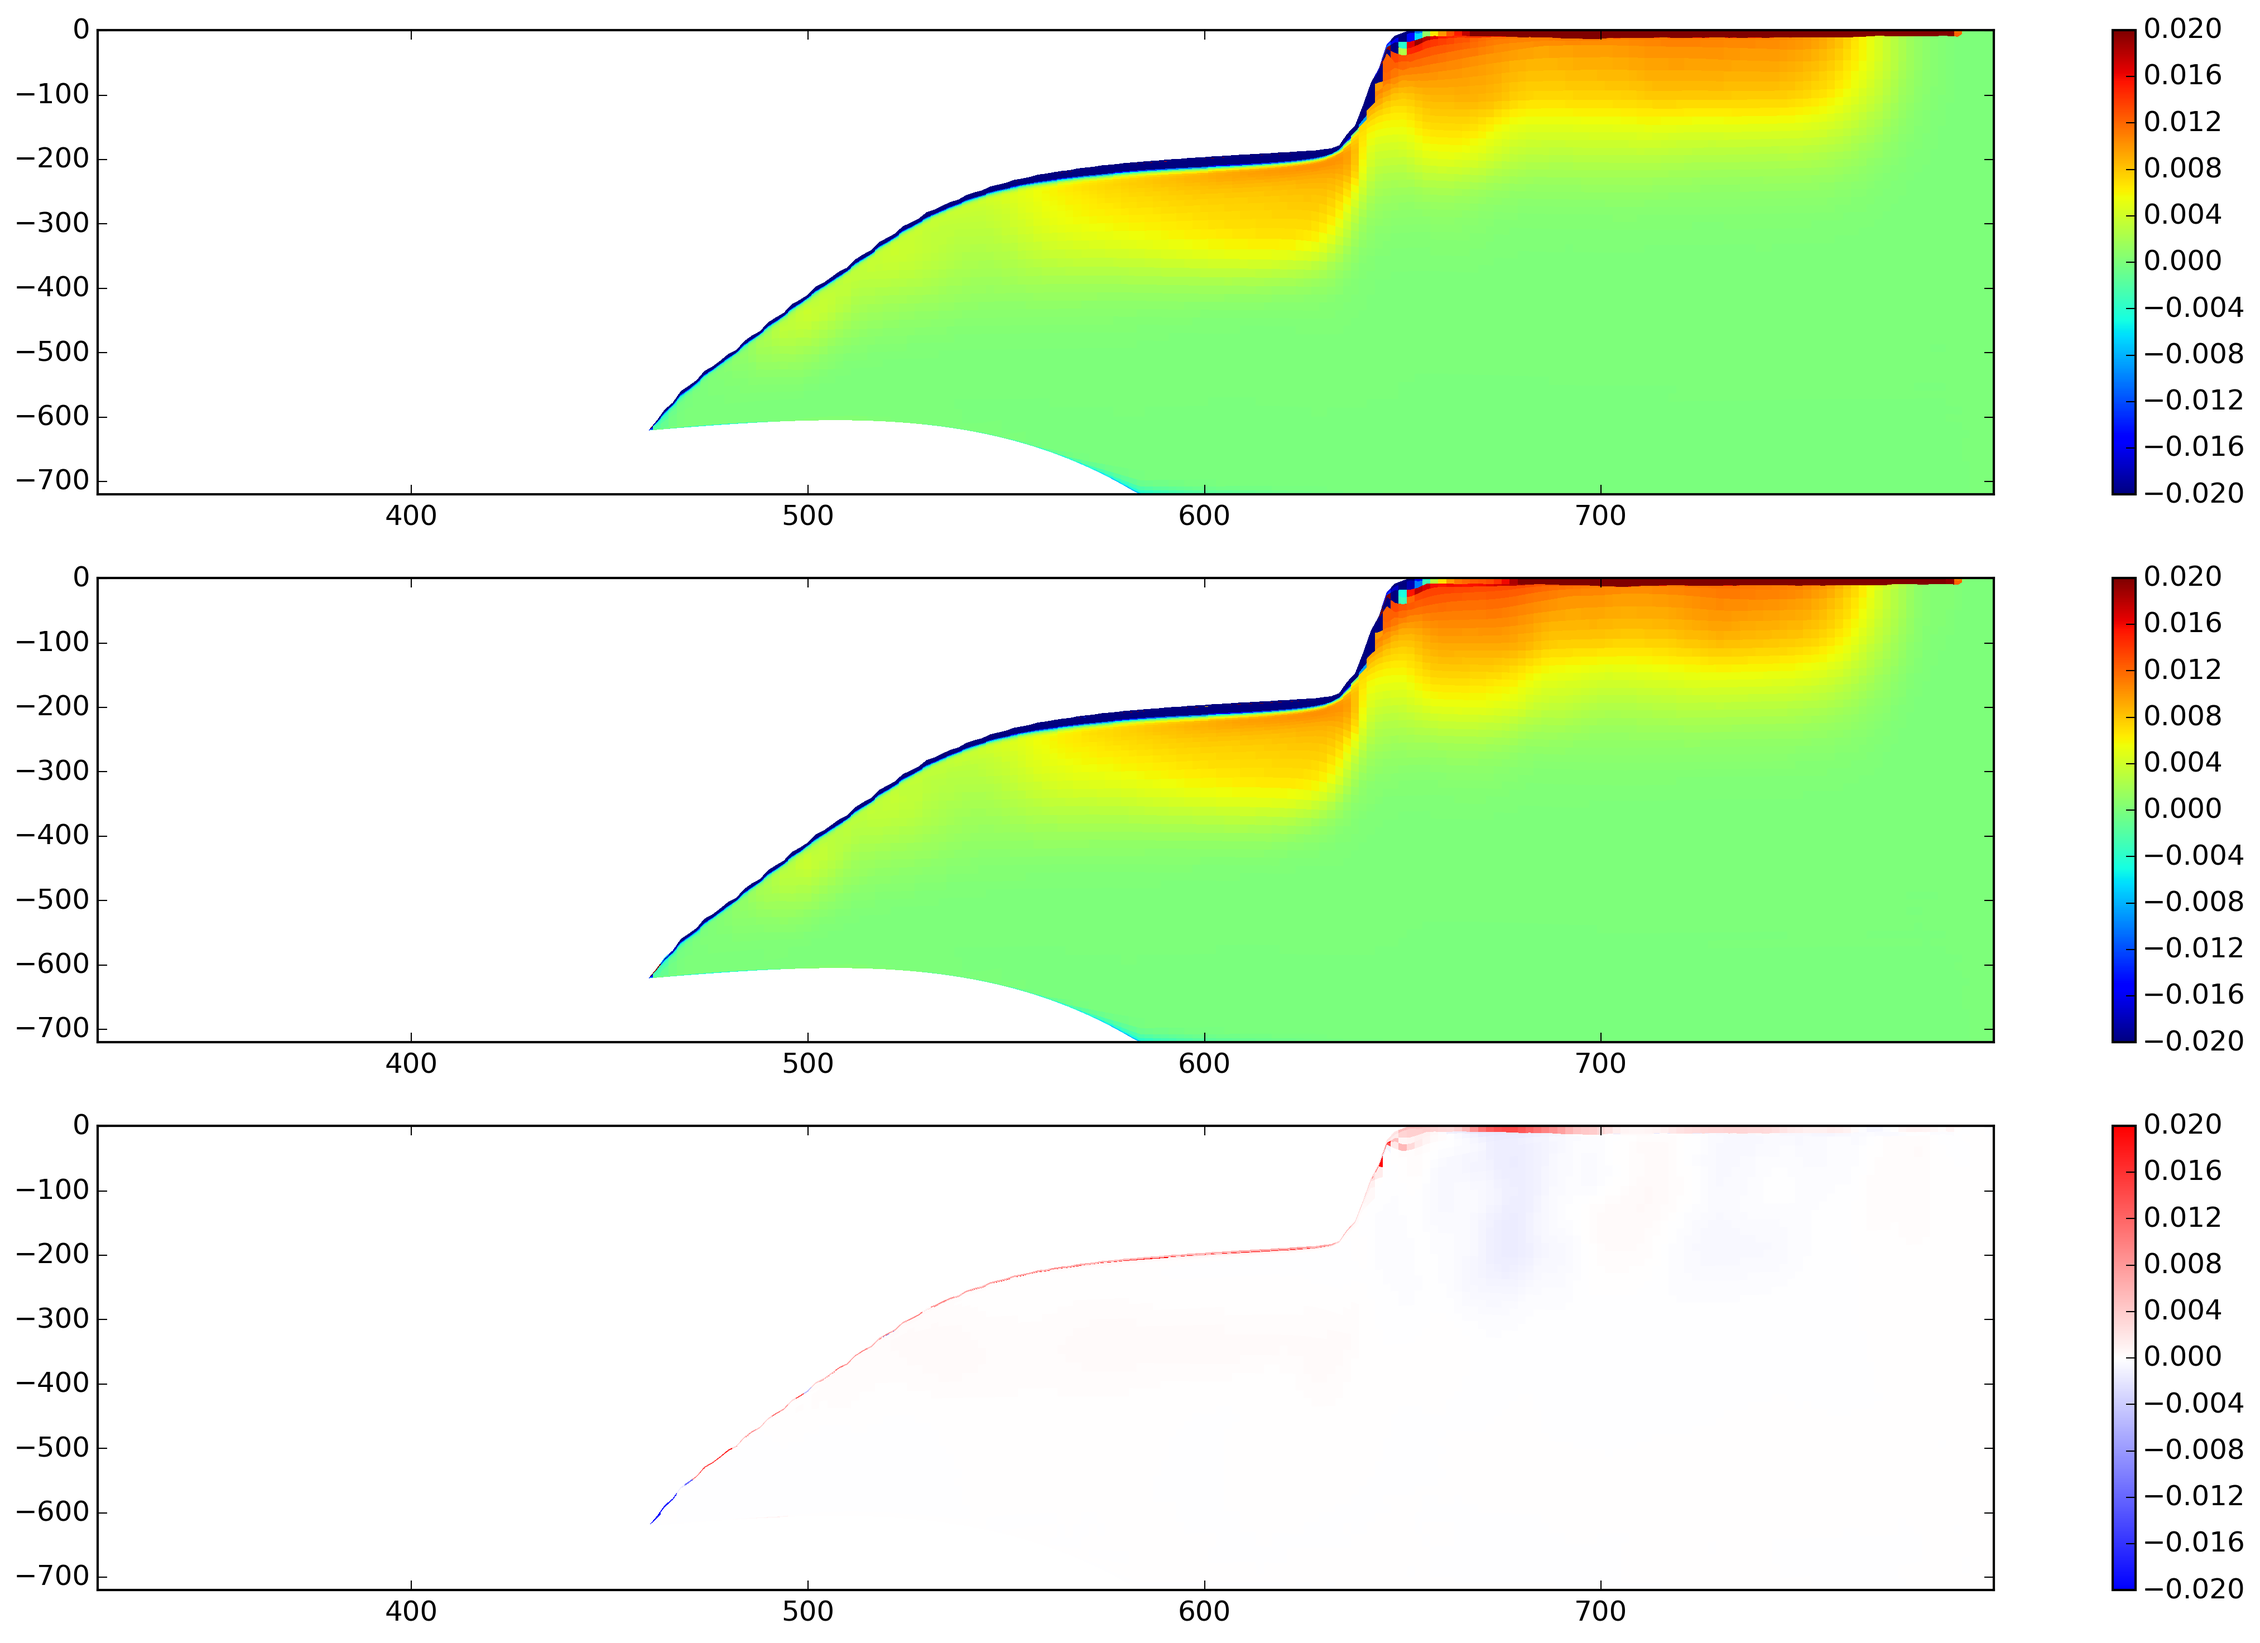
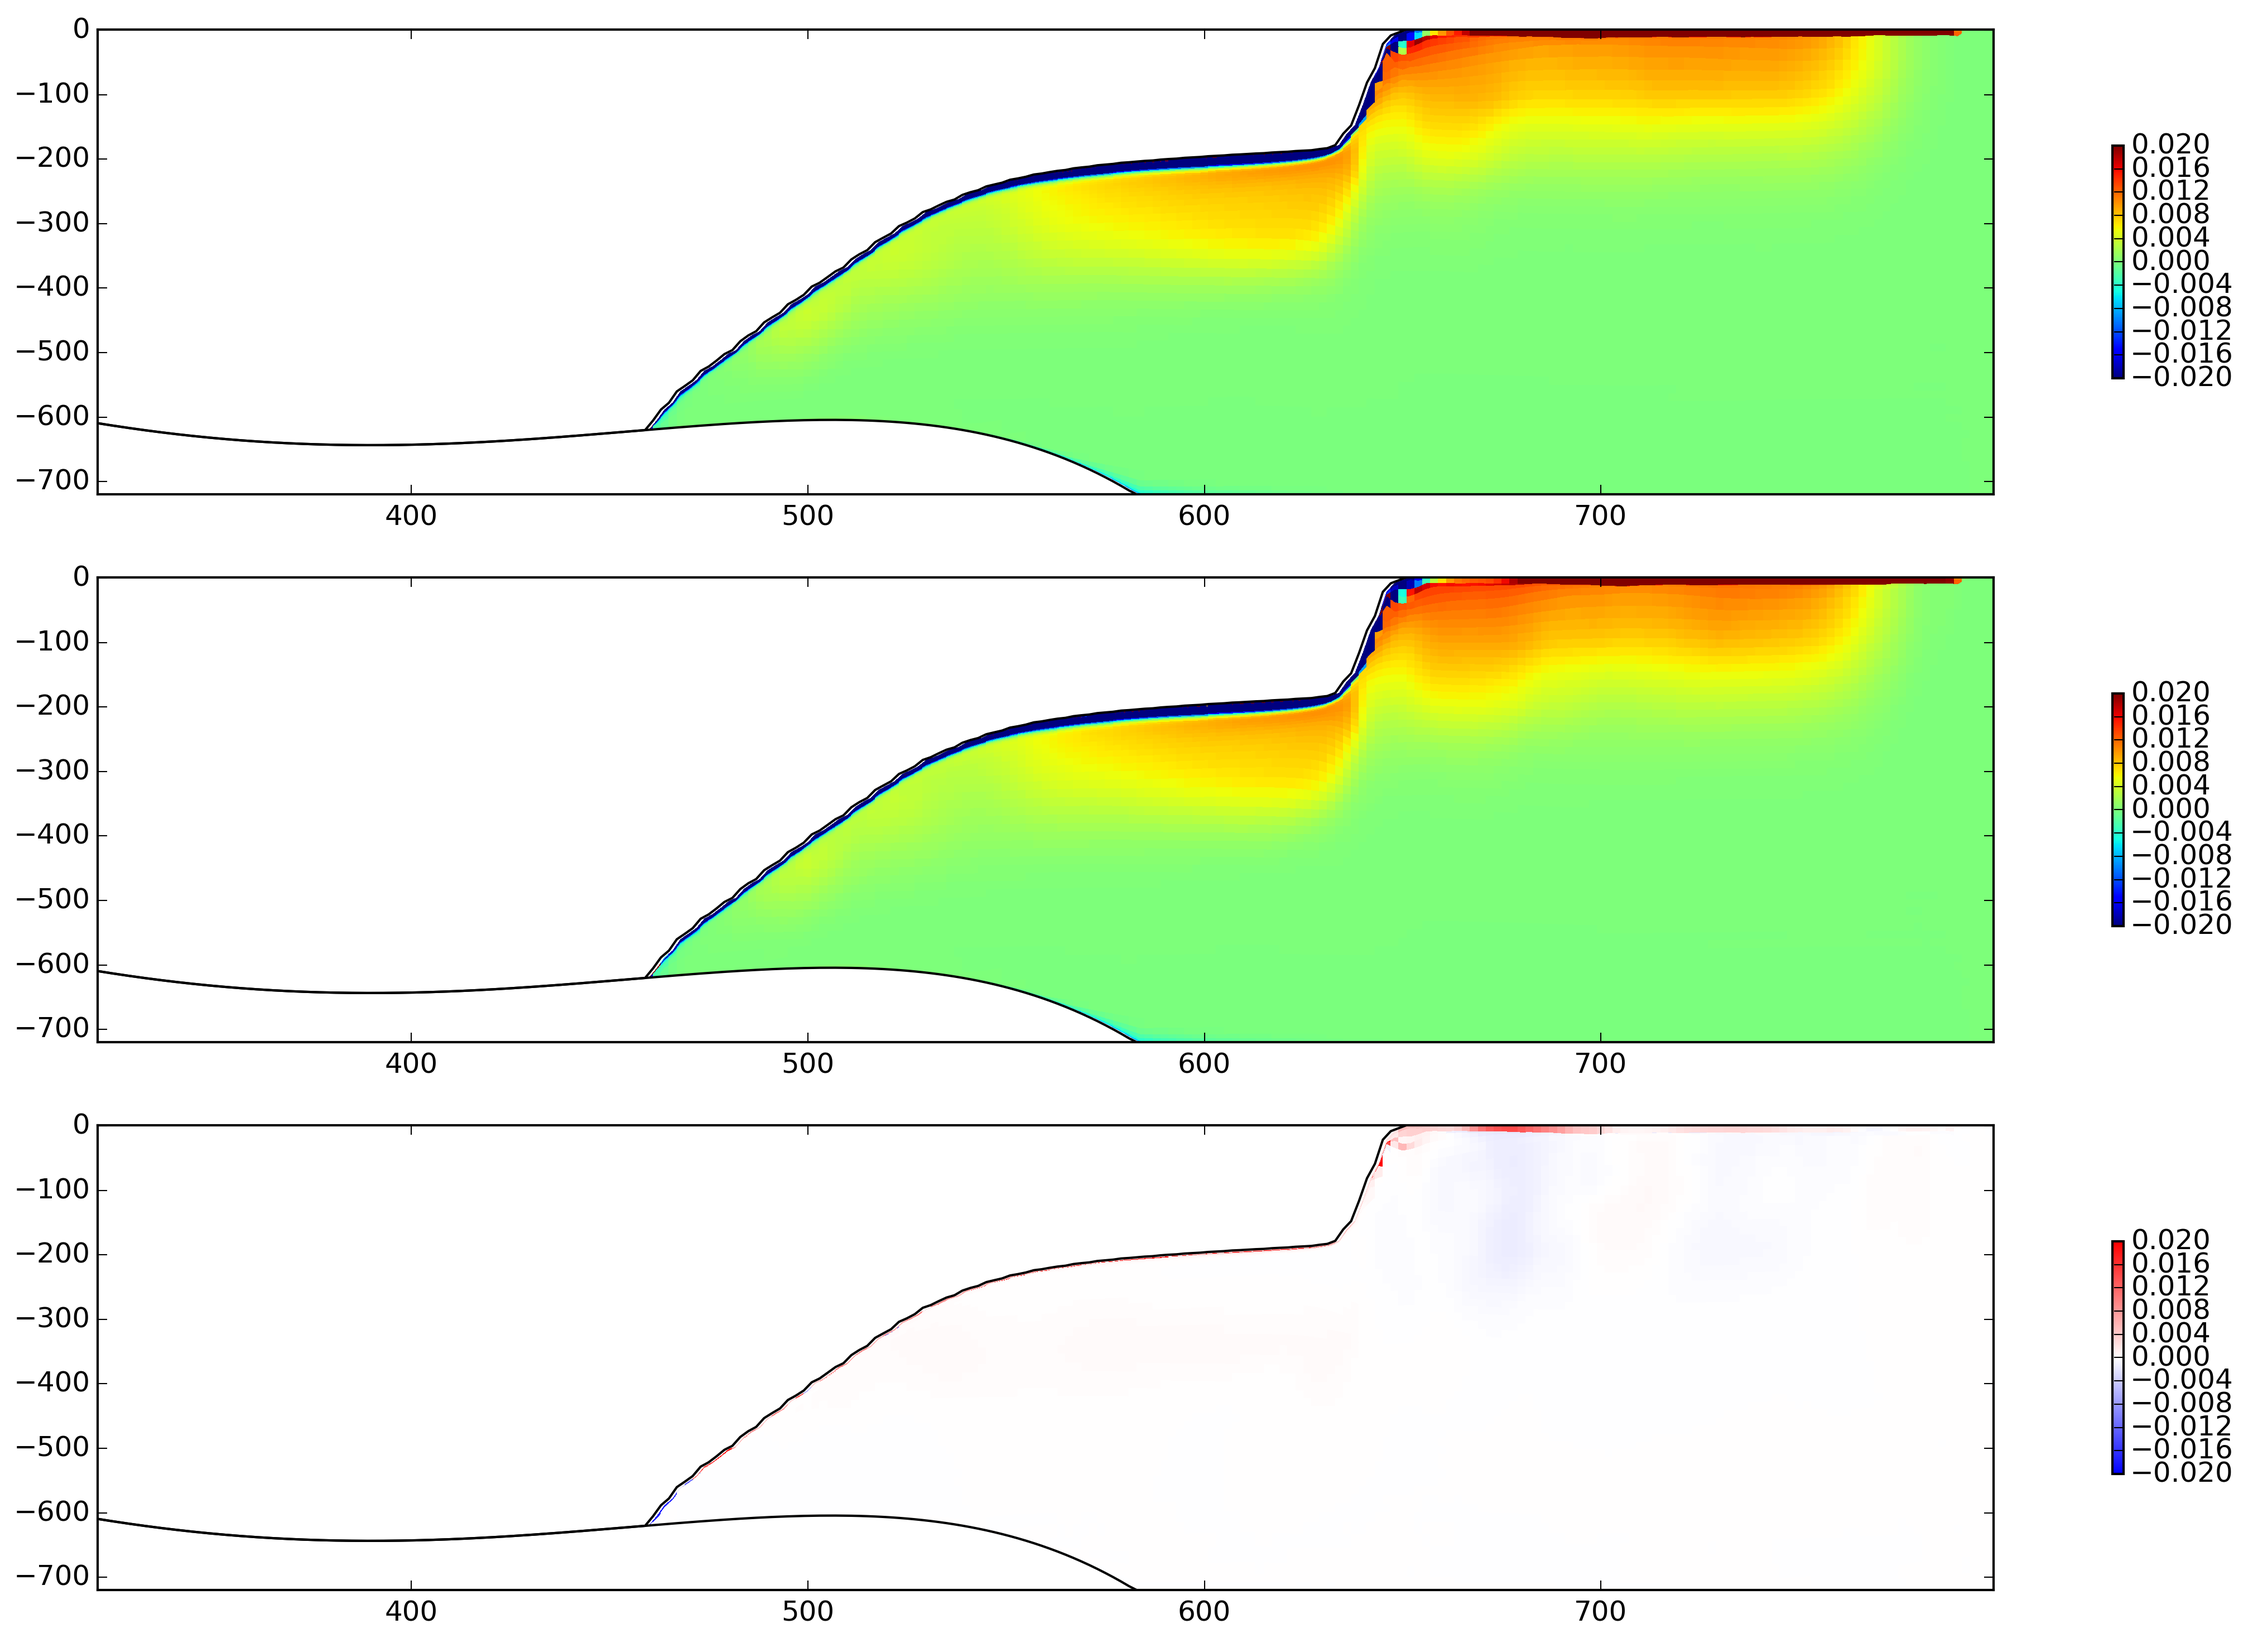
MORE!

diff --git a/static_shelf_comparison.py b/static_shelf_comparison.py
@@ -422,7 +422,7 @@ def main():
 
 
 	#Plotting flats
-	save_figure=False
+	save_figure=True
 	
 	#General flags
 	rotated=True
@@ -544,10 +544,18 @@ def main():
 
 		plt.subplot(3,1,1)
 		plot_data_field(data1, y1, z1, vmin, vmax, flipped=False, colorbar=True, cmap='jet')
+		surface=np.squeeze(elevation1[0,:])   ;  plot(dist, surface,'black')
+		bottom=np.squeeze(depth[:,20])   ;  plot(dist, -bottom,'black')
+
 		plt.subplot(3,1,2)
 		plot_data_field(data2, y2, z2, vmin, vmax, flipped=False, colorbar=True, cmap='jet')
+		surface=np.squeeze(elevation2[0,:])   ;  plot(dist, surface,'black')
+		bottom=np.squeeze(depth[:,20])   ;  plot(dist, -bottom,'black')
+
 		plt.subplot(3,1,3)
+		surface=np.squeeze(elevation1[0,:])   ;  plot(dist, surface,'black')
 		plot_data_field(data1-data2, y1, z1, vmin=-vdiff, vmax=vdiff, flipped=False, colorbar=True, cmap='bwr')
+		bottom=np.squeeze(depth[:,20])   ;  plot(dist, -bottom,'black')
 		
 		#For plotting purposes
 		field=field+'_'+ vertical_coordinate
